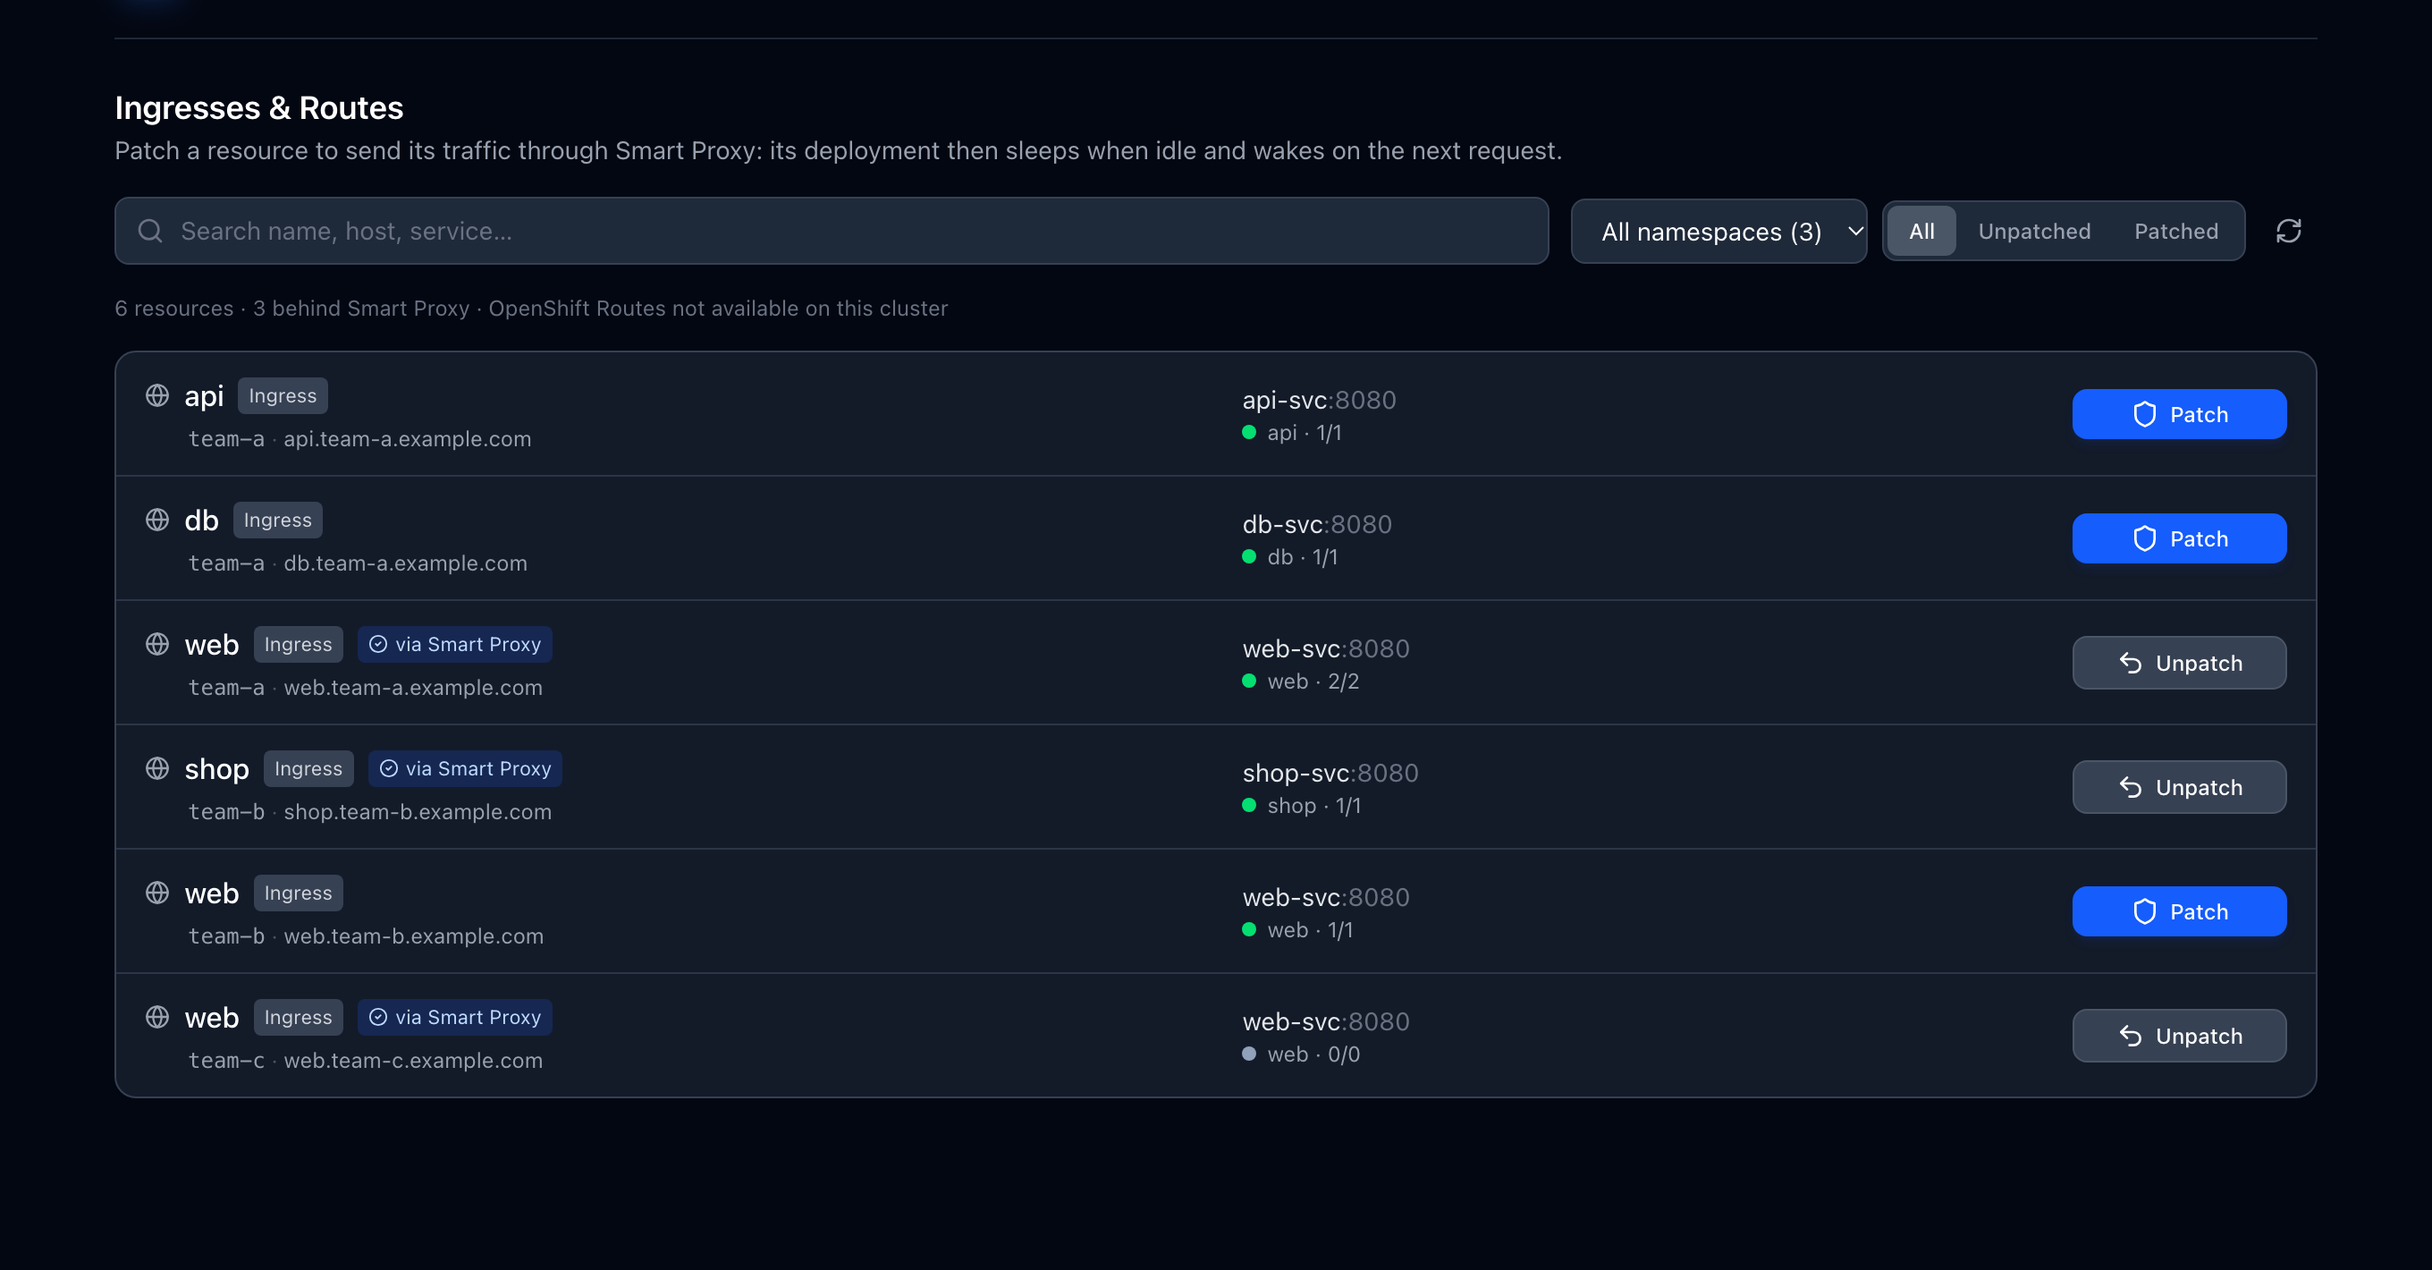
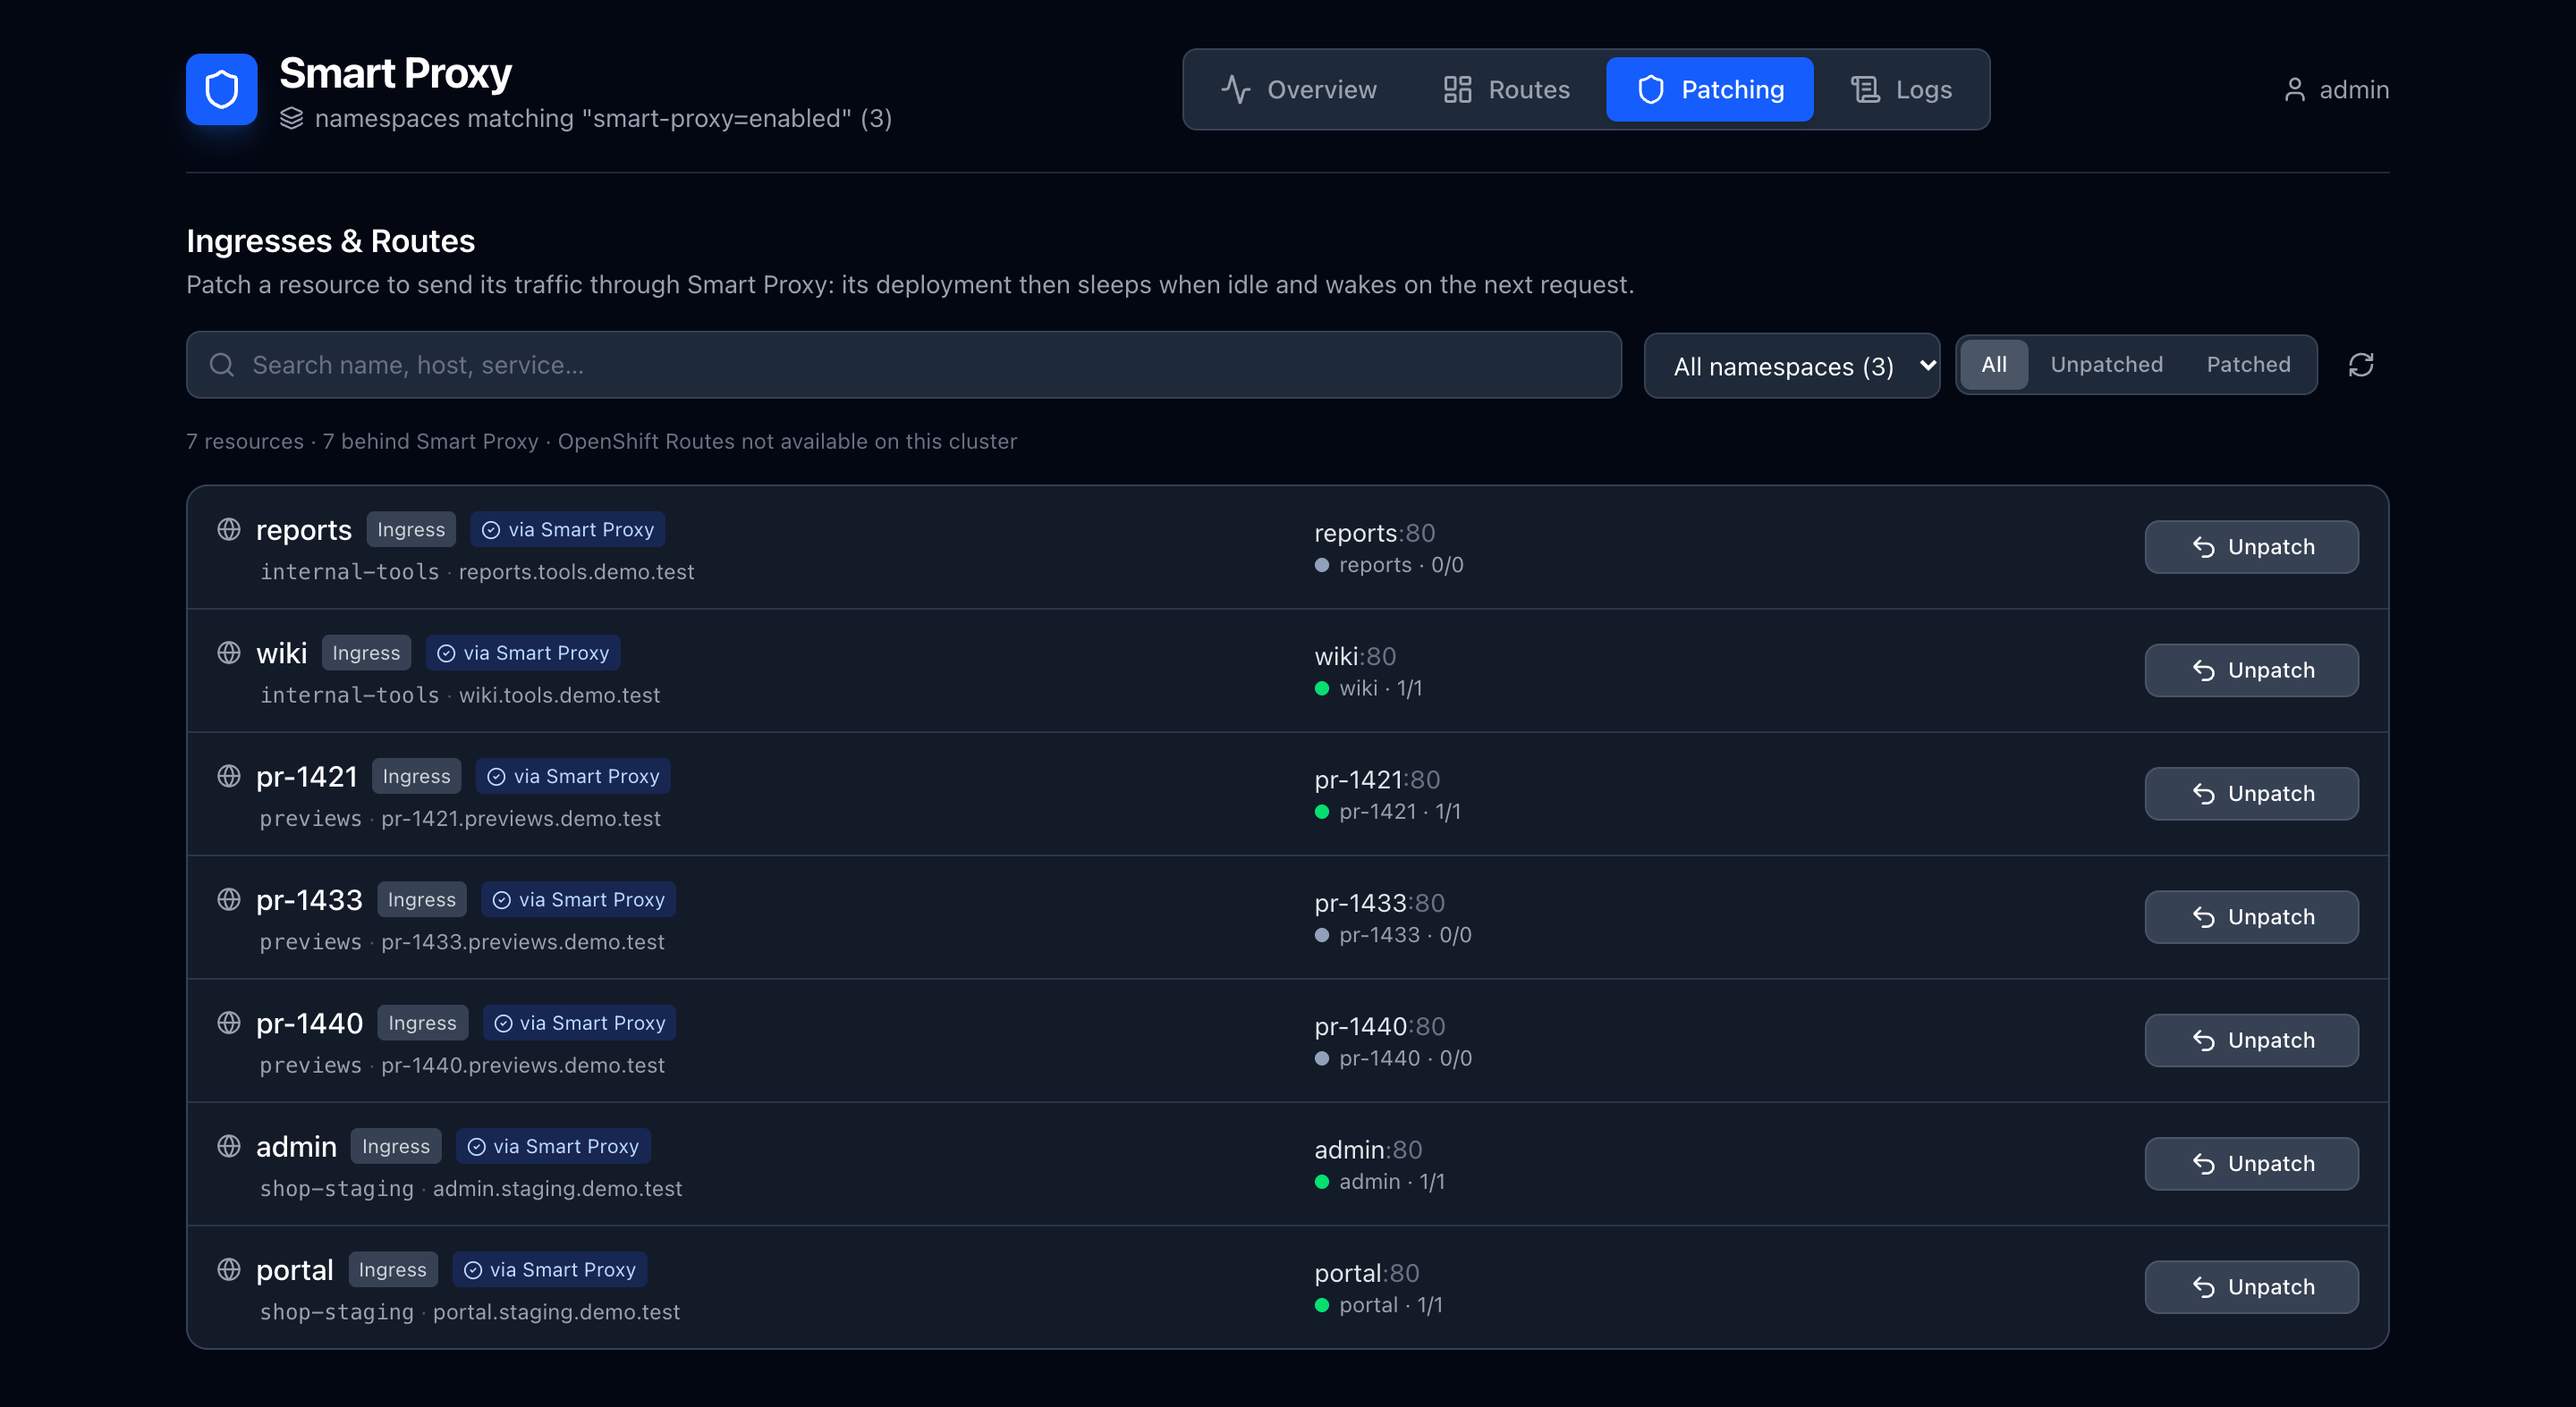
docs: the new features in the README and docs, new screenshots
README and the documentation home describe the requests inspector,
backends with conditions and built-in sign-in, with screenshots taken
from a demo cluster (routes, overview, patching, recorded requests,
backends and their editor, access settings, sign-in page).

diff --git a/README.md b/README.md
@@ -32,25 +32,52 @@ Idle environments burn money. Preview, dev, staging and demo namespaces sit runn
 | 💤 **Auto-sleep & instant wake** | Scale idle deployments to zero; the next request transparently wakes them back up. |
 | 🔗 **Dependency chains** | Keep `app → api → db` awake together, optionally starting them in order, and let them sleep together. |
 | 🩺 **Monitor-aware** | Uptime monitors and health checks never keep apps awake or wake them; they get a 200 while apps sleep. See who keeps an app awake and ignore it in one click. |
+| 🔍 **Requests inspector** | Record what reaches a route for a few minutes: headers (credentials masked), cookies, and what Smart Proxy did with each request. |
+| 🧪 **Try a new version with some users** | Send requests matching a condition (a header, cookie, path, client IP…) to another backend and keep those users there — e.g. a new SAML identity provider in production. |
+| 🔒 **Built-in sign-in** | Put any app behind a sign-in page or access tokens, without an identity provider and without touching the app. |
 | 🗓 **Schedules** | Keep apps awake during office hours (any timezone) and let them sleep the rest of the time. |
 | 📈 **Prometheus metrics** | Cold-start durations, wake-ups, sleeping deployments and replica-hours saved. |
 | 🔀 **Ingress *and* Routes** | One dashboard for both vanilla Kubernetes Ingresses and OpenShift Routes. |
 | 🗂 **Many namespaces** | Manage a list of namespaces, all of them, or any namespace you label `smart-proxy=enabled`. |
 | 🎛 **Admin dashboard** | Routes grouped by namespace with search and filters, live status and "sleeps in" timers, one-click patching, wake and sleep. |
 | 🔐 **Secure by default** | Dashboard sign-in with basic auth, tokens, SSO via OIDC (Keycloak, Entra ID, Google…) or OpenShift login. |
+| 🛡 **Built for production** | Two replicas with leader election, WebSockets and streams, gRPC, bursts of requests sharing one wake-up, GitOps-aware self-healing — tested end to end on a real cluster. |
 | 🪶 **Zero app changes** | Fully annotation-based and reversible — nothing to add to your images. Opt in from the dashboard or with annotations in Git. |
 
 ## 🖥 The dashboard
+
+Traffic of the last 30 minutes and what sleeps, at a glance:
+
+<img src="media/dashboard-overview.png" alt="Overview: deployments asleep, requests per second over the last 30 minutes, namespaces" width="820"/>
 
 Patch Ingresses and Routes in one click, across namespaces:
 
 <img src="media/dashboard-patching.png" alt="Patching view listing Ingresses across namespaces, with their Service and Deployment state" width="820"/>
 
+## 🧰 More than sleeping
+
+Three optional tools on each route's page — routes that don't use them work as before. [Read more →](docs/routes.md)
+
+**See what arrives.** Record a route's requests for a few minutes: who sends them, their headers (credentials masked), and what Smart Proxy did with each — answered by the app, woke it first, showed the waking page, which backend got it and why.
+
+<img src="media/route-requests.png" alt="Requests recorded for a route, one expanded with its headers, showing a SAML response sent to another backend" width="820"/>
+
+**Try a new version with some users.** Give a route a second backend and the conditions that send requests to it — here, responses from a new identity provider, recognized by their `Origin`. Those users stay on the new version for the rest of their session; everyone else keeps the current one. **Route like this…** on a recorded request turns one of its headers into a condition.
+
+<img src="media/route-backends.png" alt="A route's backends: the current portal takes all traffic, the new one only requests whose Origin is the new identity provider" width="820"/>
+
+**Require sign-in or a token.** Put an application behind a sign-in page served on its own address (a shared password, or named people) and access tokens for scripts — no identity provider needed. The application gets the caller in `X-Smart-Proxy-User`; strangers never wake it.
+
+<p>
+  <img src="media/route-access.png" alt="Access settings of a route: people who can sign in, access tokens, paths open without signing in" width="560"/>
+  <img src="media/sign-in.png" alt="Sign-in page served by Smart Proxy on the application's address" width="250"/>
+</p>
+
 ## 🎬 How it works
 
 1. **Patch** a route from the dashboard → Smart Proxy points the Ingress/Route to itself (originals saved in annotations).
 2. **Serve** → incoming traffic hits Smart Proxy, which checks the target's state.
-3. **Wake** → if the deployment is asleep, it holds the request, scales it up, and shows a "waking up" page until ready.
+3. **Wake** → if the deployment is asleep, it scales it up: browsers see a "waking up" page until it's ready, API calls and WebSockets simply wait for it.
 4. **Sleep** → after an idle timeout with no traffic, it scales the deployment back to zero.
 
 See the [Architecture overview](docs/architecture.md) for the details.
@@ -92,7 +119,7 @@ Then open the dashboard at [http://admin.local](http://admin.local) *(add `127.0
 - [Installation Guide](docs/installation.md) — Helm, from source, and all values
 - [Architecture Overview](docs/architecture.md) — how patching, waking and dependencies work
 - [Configuration Reference](docs/configuration.md) — environment variables and annotations
-- [Upgrading](docs/upgrading.md) — from 1.x to 2.0 (authentication on by default, two replicas, …)
+- [Upgrading](docs/upgrading.md) — what changes from one version to the next
 - [Changelog](CHANGELOG.md)
 - [Inspect, route, protect](docs/routes.md) — record what reaches a route, send some requests to another backend (e.g. a new identity provider), require sign-in or an access token
 - [GitOps](docs/gitops.md) — configure routes with annotations; Argo CD and Flux settings
@@ -102,7 +129,7 @@ Then open the dashboard at [http://admin.local](http://admin.local) *(add `127.0
 
 Issues and pull requests are welcome. If Smart Proxy saves you some cluster bills, a ⭐ on GitHub is appreciated!
 
-`go test -race ./...` runs the unit tests. `test/e2e/run.sh` runs the end-to-end tests on a local [kind](https://kind.sigs.k8s.io) cluster (Docker, kind, kubectl and Helm needed): waking from a browser, API calls with large bodies, bursts of requests, WebSockets, gRPC-style HTTP/2, long streams, leader failover and uninstall. CI runs both.
+`go test -race ./...` runs the unit tests. `test/e2e/run.sh` runs the end-to-end tests on a local [kind](https://kind.sigs.k8s.io) cluster (Docker, kind, kubectl and Helm needed): through ingress-nginx, waking from a browser, API calls with large bodies, bursts of requests, WebSockets, gRPC-style HTTP/2, the requests inspector, backend conditions, sign-in and tokens, long streams, leader failover and uninstall. CI runs both.
 
 ## License
 

diff --git a/docs/routes.md b/docs/routes.md
@@ -9,6 +9,8 @@ Three optional tools on each route's page in the dashboard. A route that doesn't
 - what was sent: method, path, query parameter names, headers (credentials such as `Authorization`, cookies, tokens and API keys are masked), cookie names, client IP and user agent. Bodies are never recorded.
 - what Smart Proxy did with it: answered by the application, woke it up first, showed the waking page, answered for it while asleep (an ignored monitor), refused it (no login), or couldn't reach it; which backend got it and why.
 
+![Requests recorded for a route, one expanded with its headers](https://raw.githubusercontent.com/ivseb/smart-proxy/main/media/route-requests.png)
+
 Every replica records the requests it serves; the dashboard gathers them, whichever replica it talks to. Recordings are kept in memory (the latest 300 per route and replica).
 
 Use it to find what identifies a client before writing an [ignore rule](configuration.md) or a backend condition: from a recorded request, **Route like this…** next to a header turns it into a condition.
@@ -22,6 +24,10 @@ A route can have more than one backend, each a Service of its namespace. **Add a
 - **The browser stays** on the backend it was sent to (cookie), so a login or session started there continues there. Over HTTPS the cookie is `SameSite=None`, so it also comes with cross-site form posts, such as an identity provider's SAML response.
 - **Managed** backends are woken by the requests sent to them and sleep with the route; others are never touched. A request sent by a condition to an unmanaged backend that isn't running gets `503` (never another backend).
 - **The link** `https://<host>/__smart_proxy/use/<backend>` keeps a browser on a backend for 12 hours; `…/use/default` goes back to the weights.
+
+![A route's backends: the current portal, and a new one getting only requests from the new identity provider](https://raw.githubusercontent.com/ivseb/smart-proxy/main/media/route-backends.png)
+
+![Editing where requests go: weights, conditions, the link for testers](https://raw.githubusercontent.com/ivseb/smart-proxy/main/media/backends-editor.png)
 
 ### Example: trying a new SAML identity provider in production
 
@@ -41,6 +47,9 @@ If the provider doesn't send `Origin`, testers open `https://<host>/__smart_prox
 - **People**, who sign in on a page served by Smart Proxy on the application's own address (`/__smart_proxy/login`, `/__smart_proxy/logout`). With a single person the page only asks for the password: use it as a shared password for a team. A login lasts 12 hours. Removing a person signs them out.
 - **Access tokens**, for scripts and other services: `Authorization: Bearer <token>`, or `X-Api-Key: <token>` when the application uses `Authorization` itself. Each token is named after who uses it, shown once, and can be revoked.
 - **Open paths**, reachable without signing in: an identity provider's callback (`/saml/acs`), webhooks, health checks (`/health*`).
+
+![Access settings of a route](https://raw.githubusercontent.com/ivseb/smart-proxy/main/media/route-access.png){ width="640" }
+![Sign-in page on the application's address](https://raw.githubusercontent.com/ivseb/smart-proxy/main/media/sign-in.png){ width="280" }
 
 The application receives the caller in the `X-Smart-Proxy-User` header (a person's name, or `token:<name>`); Smart Proxy's own credentials and cookie are removed. Requests without credentials never wake the application and don't count as activity.
 

diff --git a/docs/index.md b/docs/index.md
@@ -55,7 +55,25 @@ Idle environments burn money. Preview, dev, staging and demo namespaces run 24/7
 
     ---
 
-    A modern React UI with real-time logs, live status indicators and one-click patching.
+    Routes grouped by namespace with live status, "sleeps in" timers, traffic charts, one-click patching, wake and sleep.
+
+-   :material-magnify-scan:{ .lg .middle } &nbsp; __Requests inspector__
+
+    ---
+
+    Record what reaches a route for a few minutes: headers (credentials masked), cookies, and what Smart Proxy did with each request.
+
+-   :material-call-split:{ .lg .middle } &nbsp; __Try a new version with some users__
+
+    ---
+
+    Send requests matching a condition — a header, cookie, path or client IP — to another backend, and keep those users there. Made for trying a new identity provider in production.
+
+-   :material-lock:{ .lg .middle } &nbsp; __Built-in sign-in__
+
+    ---
+
+    Put any application behind a sign-in page or access tokens, without an identity provider and without touching it.
 
 -   :material-feather:{ .lg .middle } &nbsp; __Zero app changes__
 
@@ -77,7 +95,7 @@ Idle environments burn money. Preview, dev, staging and demo namespaces run 24/7
 
     1. **Patch** a route from the dashboard — Smart Proxy points the Ingress/Route to itself (originals saved in annotations).
     2. **Serve** — incoming traffic hits Smart Proxy, which checks the target's state.
-    3. **Wake** — if the deployment is asleep, it holds the request, scales it up, and shows a "waking up" page until ready.
+    3. **Wake** — if the deployment is asleep, it scales it up: browsers see a "waking up" page until it's ready, API calls and WebSockets simply wait for it.
     4. **Sleep** — after an idle timeout with no traffic, it scales the deployment back to zero.
 
 ```mermaid
@@ -90,6 +108,16 @@ flowchart LR
 ```
 
 [Read the full architecture →](architecture.md)
+
+## More than sleeping
+
+Three optional tools on each route's page: see what arrives, send some requests to another version, require sign-in.
+
+<p align="center">
+  <img src="https://raw.githubusercontent.com/ivseb/smart-proxy/main/media/route-requests.png" alt="Requests recorded for a route" width="820"/>
+</p>
+
+[Inspect, route, protect →](routes.md)
 
 ## Get started
 
